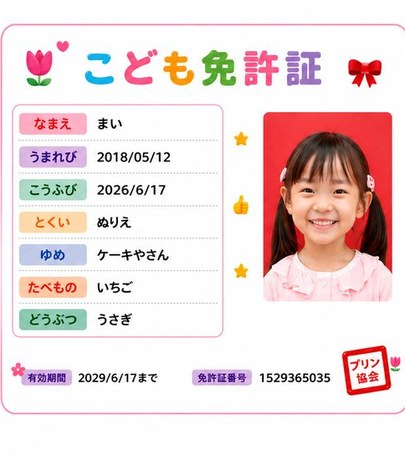
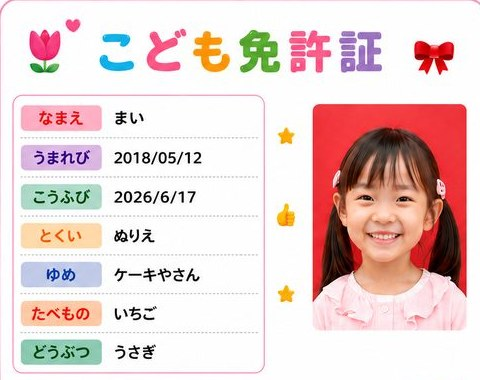
HP: 全金額を+10,000円に更新／免許証カードを小さく横長・持っている見せ方に
- 料金表・体験カード・オプション・見積シミュレーター(data-price含む)の金額を一律+10,000円
- ヒーローの免許証カードを横長に再トリミング＋縮小し、ペンギンが持つ配置に調整

Claude-Session: https://claude.ai/code/session_012CAGZHqWDYhrYngNq3AUxT

diff --git a/site/index.html b/site/index.html
@@ -142,12 +142,12 @@ nav.main a:hover{color:var(--blue);border-color:var(--orange)}
 .mascot{position:relative;z-index:2;width:100%;filter:drop-shadow(0 16px 18px rgb(var(--shadow)/.28))}
 .float{animation:float 4s ease-in-out infinite alternate}
 @keyframes float{from{transform:translateY(0)}to{transform:translateY(-10px)}}
-.lic-card{position:absolute;z-index:4;right:-13%;top:30%;width:44%;border-radius:14px;border:5px solid #fff;
-  transform:rotate(9deg);box-shadow:0 20px 36px -14px rgb(var(--shadow)/.6)}
-.lic-tag{position:absolute;z-index:5;right:-6%;top:22%;background:var(--coral);color:#fff;font-family:var(--display);
-  font-weight:700;font-size:12px;padding:6px 12px;border-radius:999px;transform:rotate(9deg);
+.lic-card{position:absolute;z-index:4;right:-9%;top:40%;width:40%;border-radius:11px;border:4px solid #fff;
+  transform:rotate(8deg);box-shadow:0 16px 30px -12px rgb(var(--shadow)/.6)}
+.lic-tag{position:absolute;z-index:5;right:-3%;top:31%;background:var(--coral);color:#fff;font-family:var(--display);
+  font-weight:700;font-size:11.5px;padding:5px 11px;border-radius:999px;transform:rotate(8deg);
   box-shadow:0 8px 16px -8px rgb(var(--shadow)/.6);white-space:nowrap}
-@media(max-width:920px){.lic-card{right:-2%;top:34%;width:40%}.lic-tag{right:4%;top:26%}}
+@media(max-width:920px){.lic-card{right:2%;top:44%;width:38%}.lic-tag{right:8%;top:35%}}
 .float2{animation:float 4.6s ease-in-out .35s infinite alternate}
 .spark{position:absolute;z-index:3;animation:tw 2.4s ease-in-out infinite}
 @keyframes tw{0%,100%{transform:scale(1);opacity:.9}50%{transform:scale(.6);opacity:.4}}
@@ -506,7 +506,7 @@ footer{background:var(--navy);color:rgb(255 255 255 / .7);padding:34px 0 30px;fo
           <p class="desc">EVカーでコースを周回し、顔写真入りの「こども免許証」をその場で発行します。</p>
           <div class="spec">対象 3〜8歳／所要 8〜12分・1組／車種 7タイプ</div>
           <div class="tags"><span>週末集客</span><span>着座・商談</span><span>回遊促進</span></div>
-          <div class="price"><b>¥80,000</b><small>〜／日（税別）</small></div>
+          <div class="price"><b>¥90,000</b><small>〜／日（税別）</small></div>
           <a class="more" href="klp.html">詳しく見る <span aria-hidden="true">→</span></a>
         </div>
       </article>
@@ -517,7 +517,7 @@ footer{background:var(--navy);color:rgb(255 255 255 / .7);padding:34px 0 30px;fo
           <p class="desc">動物モールド（とら・ぞう・ペンギン）から、ぷにぷにのスクイーズを制作。型のまま持ち帰り、おうちで完成させるワクワクも。</p>
           <div class="spec">所要 約20分・1組／全7工程／6畳程度から</div>
           <div class="tags"><span>着座・商談</span><span>待ち時間対策</span><span>省スペース</span></div>
-          <div class="price"><b>¥80,000</b><small>／日（税別）</small></div>
+          <div class="price"><b>¥90,000</b><small>／日（税別）</small></div>
           <a class="more" href="punilab.html">詳しく見る <span aria-hidden="true">→</span></a>
         </div>
       </article>
@@ -528,7 +528,7 @@ footer{background:var(--navy);color:rgb(255 255 255 / .7);padding:34px 0 30px;fo
           <p class="desc">振ると中が揺れる「シャカシャカシール」を制作。はさみを使わず小さなお子様も安心です。</p>
           <div class="spec">所要 約20分・1組／道具不要／6畳程度から</div>
           <div class="tags"><span>着座・商談</span><span>待ち時間対策</span><span>省スペース</span></div>
-          <div class="price"><b>¥80,000</b><small>／日（税別）</small></div>
+          <div class="price"><b>¥90,000</b><small>／日（税別）</small></div>
           <a class="more" href="seal.html">詳しく見る <span aria-hidden="true">→</span></a>
         </div>
       </article>
@@ -640,10 +640,10 @@ footer{background:var(--navy);color:rgb(255 255 255 / .7);padding:34px 0 30px;fo
       <p>主役の体験コンテンツに、エア遊具・ゲームをプラス。会場の空きスペースを、そのまま賑わいに変えられます。</p>
     </div>
     <div class="opt-grid reveal">
-      <div class="opt"><div class="othumb"><img src="images/airizm-tramp.jpg" alt="エアリズム トランポリン" loading="lazy"></div><div class="ob"><h4>エアリズム トランポリン</h4><span class="op">¥70,000<span class="os">／日</span></span></div></div>
-      <div class="opt"><div class="othumb"><img src="images/airizm.jpg" alt="エアリズム" loading="lazy"></div><div class="ob"><h4>エアリズム</h4><span class="op">¥50,000<span class="os">／日</span></span></div></div>
-      <div class="opt"><div class="othumb"><img src="images/carnival-a.jpg" alt="カーニバルA" loading="lazy"></div><div class="ob"><h4>カーニバルA</h4><span class="op">¥50,000<span class="os">／日</span></span></div></div>
-      <div class="opt"><div class="othumb"><img src="images/carnival-b.jpg" alt="カーニバルB" loading="lazy"></div><div class="ob"><h4>カーニバルB</h4><span class="op">¥50,000<span class="os">／日</span></span></div></div>
+      <div class="opt"><div class="othumb"><img src="images/airizm-tramp.jpg" alt="エアリズム トランポリン" loading="lazy"></div><div class="ob"><h4>エアリズム トランポリン</h4><span class="op">¥80,000<span class="os">／日</span></span></div></div>
+      <div class="opt"><div class="othumb"><img src="images/airizm.jpg" alt="エアリズム" loading="lazy"></div><div class="ob"><h4>エアリズム</h4><span class="op">¥60,000<span class="os">／日</span></span></div></div>
+      <div class="opt"><div class="othumb"><img src="images/carnival-a.jpg" alt="カーニバルA" loading="lazy"></div><div class="ob"><h4>カーニバルA</h4><span class="op">¥60,000<span class="os">／日</span></span></div></div>
+      <div class="opt"><div class="othumb"><img src="images/carnival-b.jpg" alt="カーニバルB" loading="lazy"></div><div class="ob"><h4>カーニバルB</h4><span class="op">¥60,000<span class="os">／日</span></span></div></div>
       <div class="opt"><div class="othumb"><img src="images/unicorn.jpg" alt="ユニコーンターゲット" loading="lazy"></div><div class="ob"><h4>ユニコーンターゲット</h4><span class="op">お見積り</span></div></div>
       <div class="opt"><div class="othumb"><img src="images/placeholder-game.svg" alt="フープショット" loading="lazy"></div><div class="ob"><h4>フープショット</h4><span class="op">お見積り</span></div></div>
       <div class="opt"><div class="othumb"><img src="images/placeholder-game.svg" alt="ウエスタンフープ" loading="lazy"></div><div class="ob"><h4>ウエスタンフープ</h4><span class="op">お見積り</span></div></div>
@@ -664,13 +664,13 @@ footer{background:var(--navy);color:rgb(255 255 255 / .7);padding:34px 0 30px;fo
       <table>
         <thead><tr><th>コンテンツ</th><th>プラン・仕様</th><th>機材費／日</th><th>機材費／月</th></tr></thead>
         <tbody>
-          <tr><td class="name">キッズライセンスパーク</td><td>スタンダード／車両2台・1コース</td><td class="num">¥80,000</td><td class="num">—</td></tr>
-          <tr><td class="name">キッズライセンスパーク</td><td>プレミアム／車両3台・フルセット</td><td class="num">¥125,000</td><td class="num">—</td></tr>
-          <tr><td class="name">ぷにラボ｜スクイーズ工作</td><td>約20分／組・全7工程</td><td class="num">¥80,000</td><td class="num">—</td></tr>
-          <tr><td class="name">シールデコ ワークショップ</td><td>約20分／組</td><td class="num">¥80,000</td><td class="num">—</td></tr>
-          <tr><td class="name">エアリズム</td><td>W2800×D1000×H1750mm</td><td class="num">¥50,000</td><td class="num">¥350,000</td></tr>
-          <tr><td class="name">エアリズム トランポリン</td><td>W2800×D1000×H1750mm</td><td class="num">¥70,000</td><td class="num">¥350,000</td></tr>
-          <tr><td class="name">カーニバルA / B</td><td>ゲーム型エア遊具</td><td class="num">¥50,000</td><td class="num">¥320,000</td></tr>
+          <tr><td class="name">キッズライセンスパーク</td><td>スタンダード／車両2台・1コース</td><td class="num">¥90,000</td><td class="num">—</td></tr>
+          <tr><td class="name">キッズライセンスパーク</td><td>プレミアム／車両3台・フルセット</td><td class="num">¥135,000</td><td class="num">—</td></tr>
+          <tr><td class="name">ぷにラボ｜スクイーズ工作</td><td>約20分／組・全7工程</td><td class="num">¥90,000</td><td class="num">—</td></tr>
+          <tr><td class="name">シールデコ ワークショップ</td><td>約20分／組</td><td class="num">¥90,000</td><td class="num">—</td></tr>
+          <tr><td class="name">エアリズム</td><td>W2800×D1000×H1750mm</td><td class="num">¥60,000</td><td class="num">¥360,000</td></tr>
+          <tr><td class="name">エアリズム トランポリン</td><td>W2800×D1000×H1750mm</td><td class="num">¥80,000</td><td class="num">¥360,000</td></tr>
+          <tr><td class="name">カーニバルA / B</td><td>ゲーム型エア遊具</td><td class="num">¥60,000</td><td class="num">¥330,000</td></tr>
           <tr><td class="name">ゲーム遊具ほか</td><td>ユニコーン／フープショット 等</td><td class="num">お見積り</td><td class="num">—</td></tr>
           <tr style="background:var(--pink-soft)"><td class="name">運営代行オプション</td><td>設営・受付・安全管理・撤収／スタッフ常駐</td><td class="num" colspan="2">別途お見積り</td></tr>
         </tbody>
@@ -685,14 +685,14 @@ footer{background:var(--navy);color:rgb(255 255 255 / .7);padding:34px 0 30px;fo
         <div>
           <h3 class="est-colhead">遊具・体験を選ぶ</h3>
           <div class="est-list">
-            <label class="est-row"><input type="checkbox" class="est-check" data-price="80000">キッズライセンスパーク（スタンダード）<span class="est-name" hidden></span><span class="est-price">￥80,000／日</span></label>
-            <label class="est-row"><input type="checkbox" class="est-check" data-price="125000">キッズライセンスパーク（プレミアム）<span class="est-price">￥125,000／日</span></label>
-            <label class="est-row"><input type="checkbox" class="est-check" data-price="80000">ぷにラボ（スクイーズ工作）<span class="est-price">￥80,000／日</span></label>
-            <label class="est-row"><input type="checkbox" class="est-check" data-price="80000">シールデコ ワークショップ<span class="est-price">￥80,000／日</span></label>
-            <label class="est-row"><input type="checkbox" class="est-check" data-price="70000">エアリズム トランポリン<span class="est-price">￥70,000／日</span></label>
-            <label class="est-row"><input type="checkbox" class="est-check" data-price="50000">エアリズム<span class="est-price">￥50,000／日</span></label>
-            <label class="est-row"><input type="checkbox" class="est-check" data-price="50000">カーニバルA<span class="est-price">￥50,000／日</span></label>
-            <label class="est-row"><input type="checkbox" class="est-check" data-price="50000">カーニバルB<span class="est-price">￥50,000／日</span></label>
+            <label class="est-row"><input type="checkbox" class="est-check" data-price="90000">キッズライセンスパーク（スタンダード）<span class="est-name" hidden></span><span class="est-price">￥90,000／日</span></label>
+            <label class="est-row"><input type="checkbox" class="est-check" data-price="135000">キッズライセンスパーク（プレミアム）<span class="est-price">￥135,000／日</span></label>
+            <label class="est-row"><input type="checkbox" class="est-check" data-price="90000">ぷにラボ（スクイーズ工作）<span class="est-price">￥90,000／日</span></label>
+            <label class="est-row"><input type="checkbox" class="est-check" data-price="90000">シールデコ ワークショップ<span class="est-price">￥90,000／日</span></label>
+            <label class="est-row"><input type="checkbox" class="est-check" data-price="80000">エアリズム トランポリン<span class="est-price">￥80,000／日</span></label>
+            <label class="est-row"><input type="checkbox" class="est-check" data-price="60000">エアリズム<span class="est-price">￥60,000／日</span></label>
+            <label class="est-row"><input type="checkbox" class="est-check" data-price="60000">カーニバルA<span class="est-price">￥60,000／日</span></label>
+            <label class="est-row"><input type="checkbox" class="est-check" data-price="60000">カーニバルB<span class="est-price">￥60,000／日</span></label>
             <label class="est-row est-row-quote"><input type="checkbox" class="est-check-quote">ゲーム遊具（ユニコーン等）<span class="est-price">個別見積り</span></label>
           </div>
         </div>
